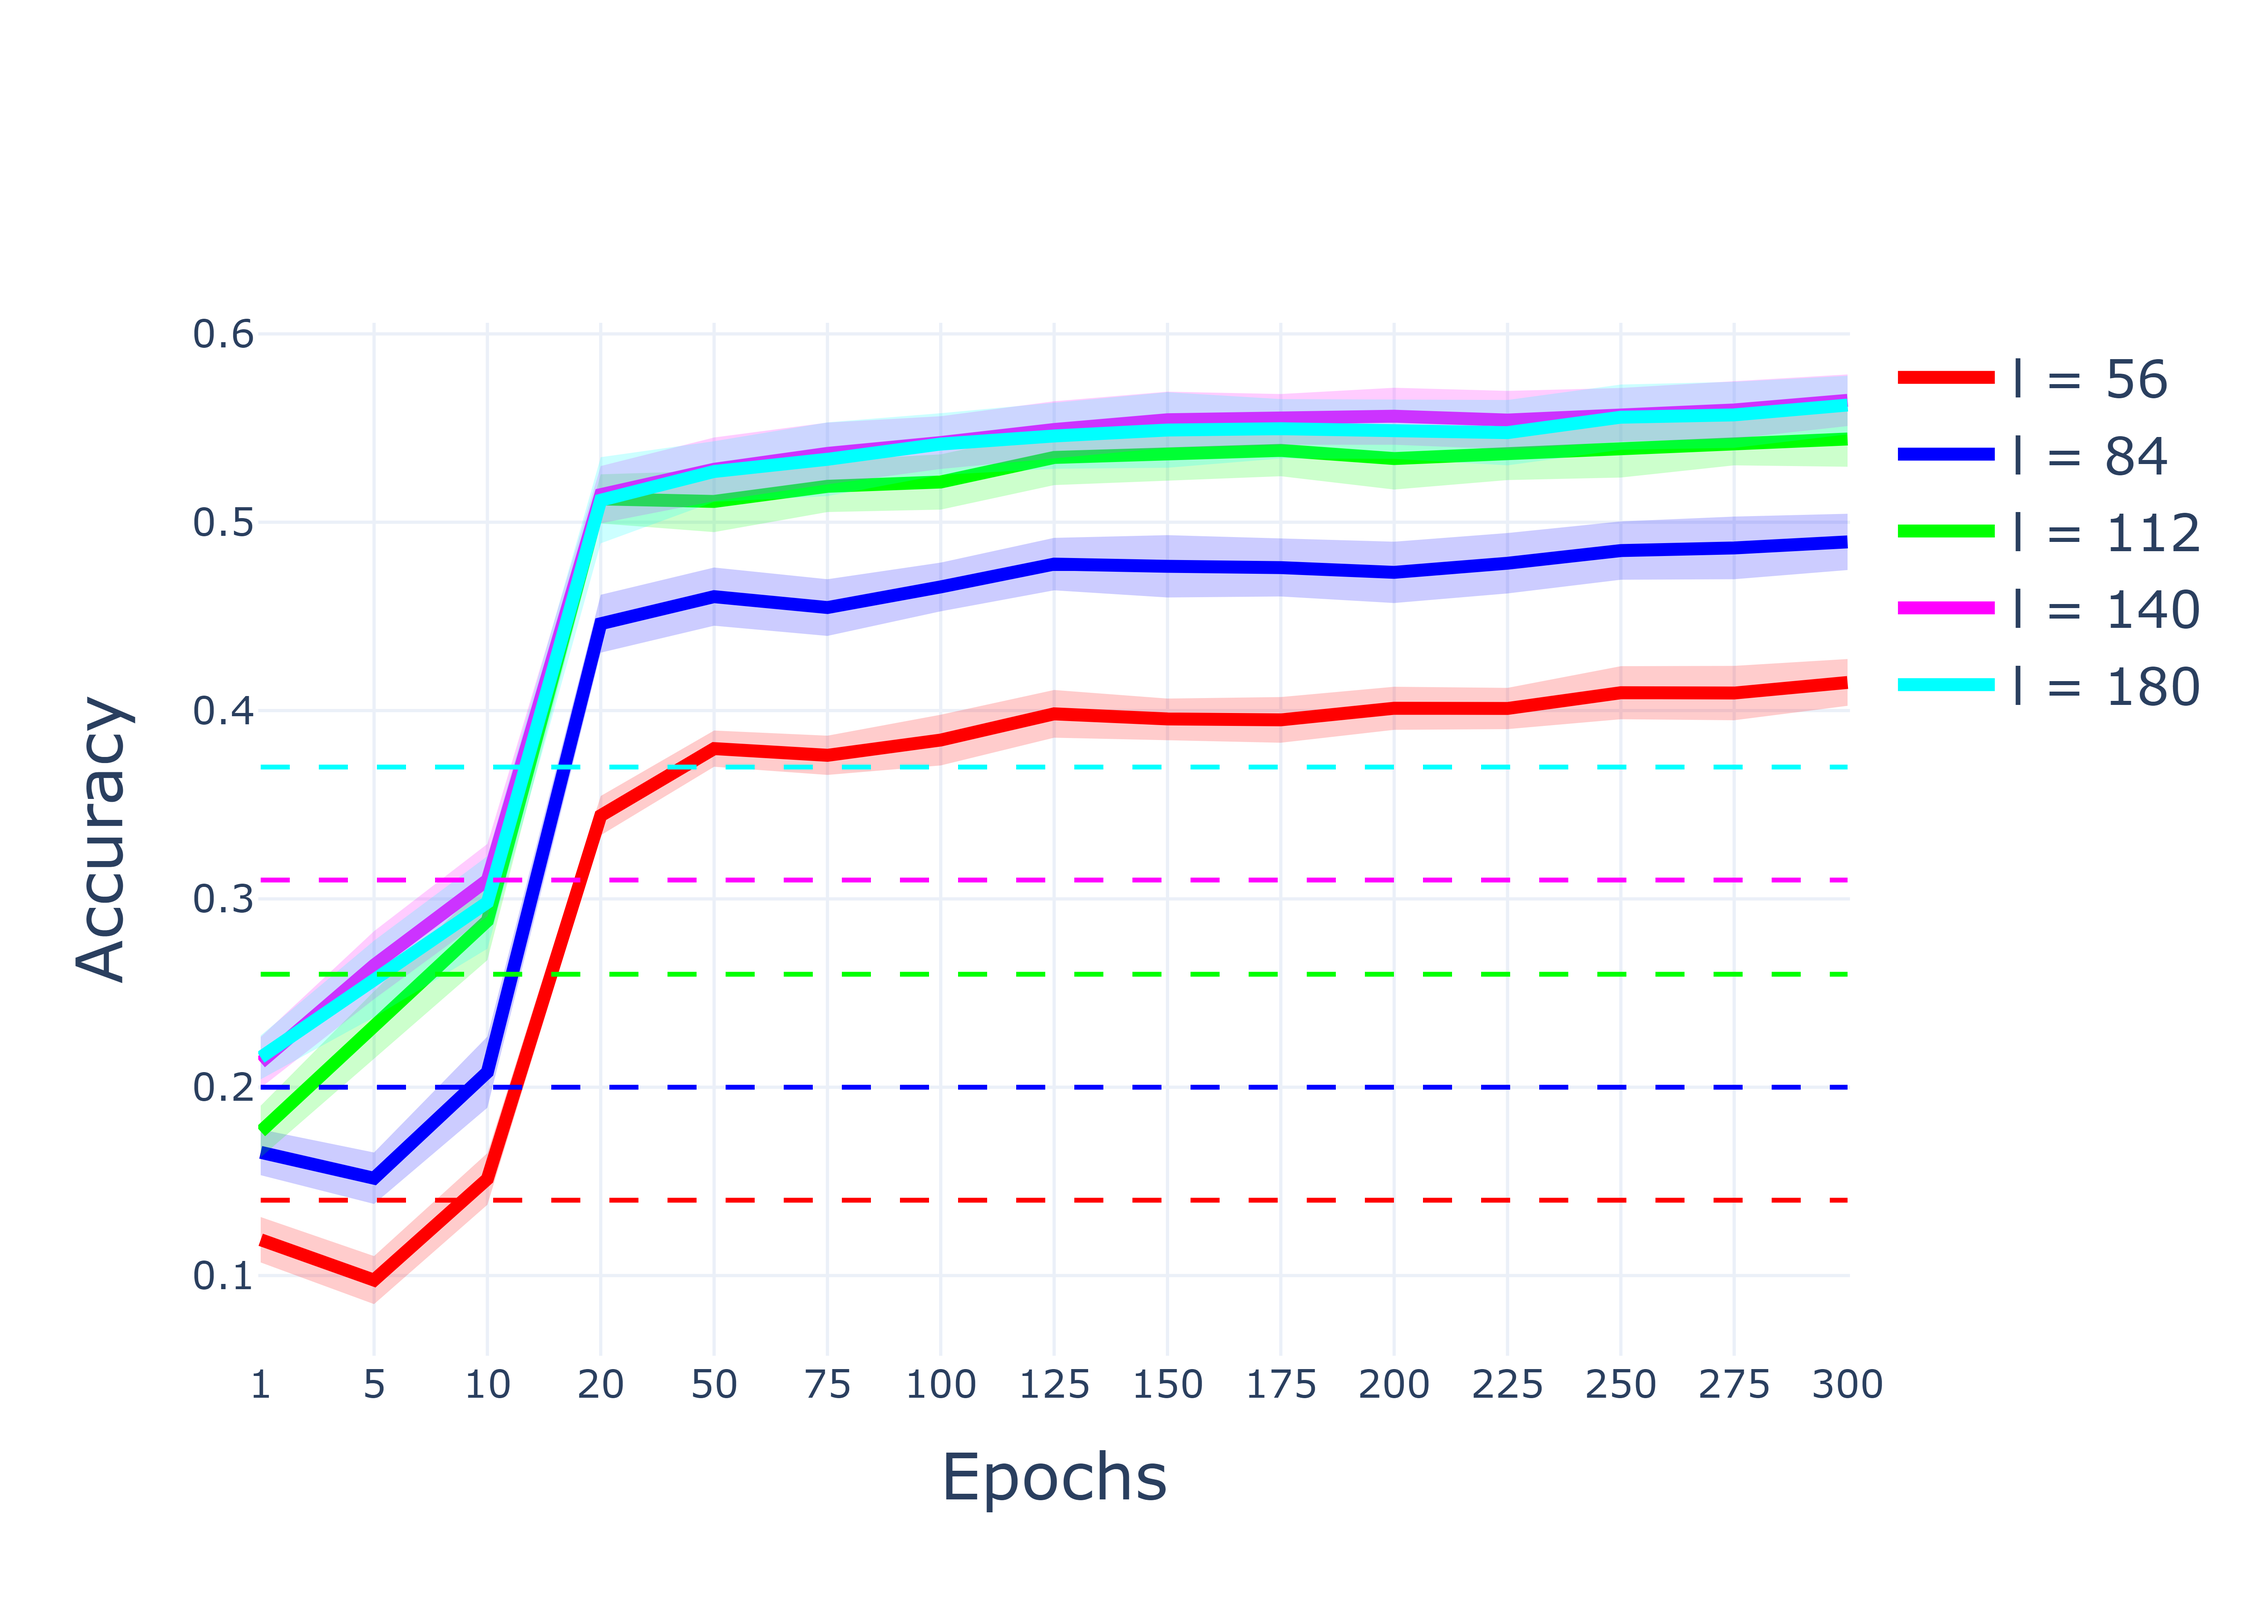
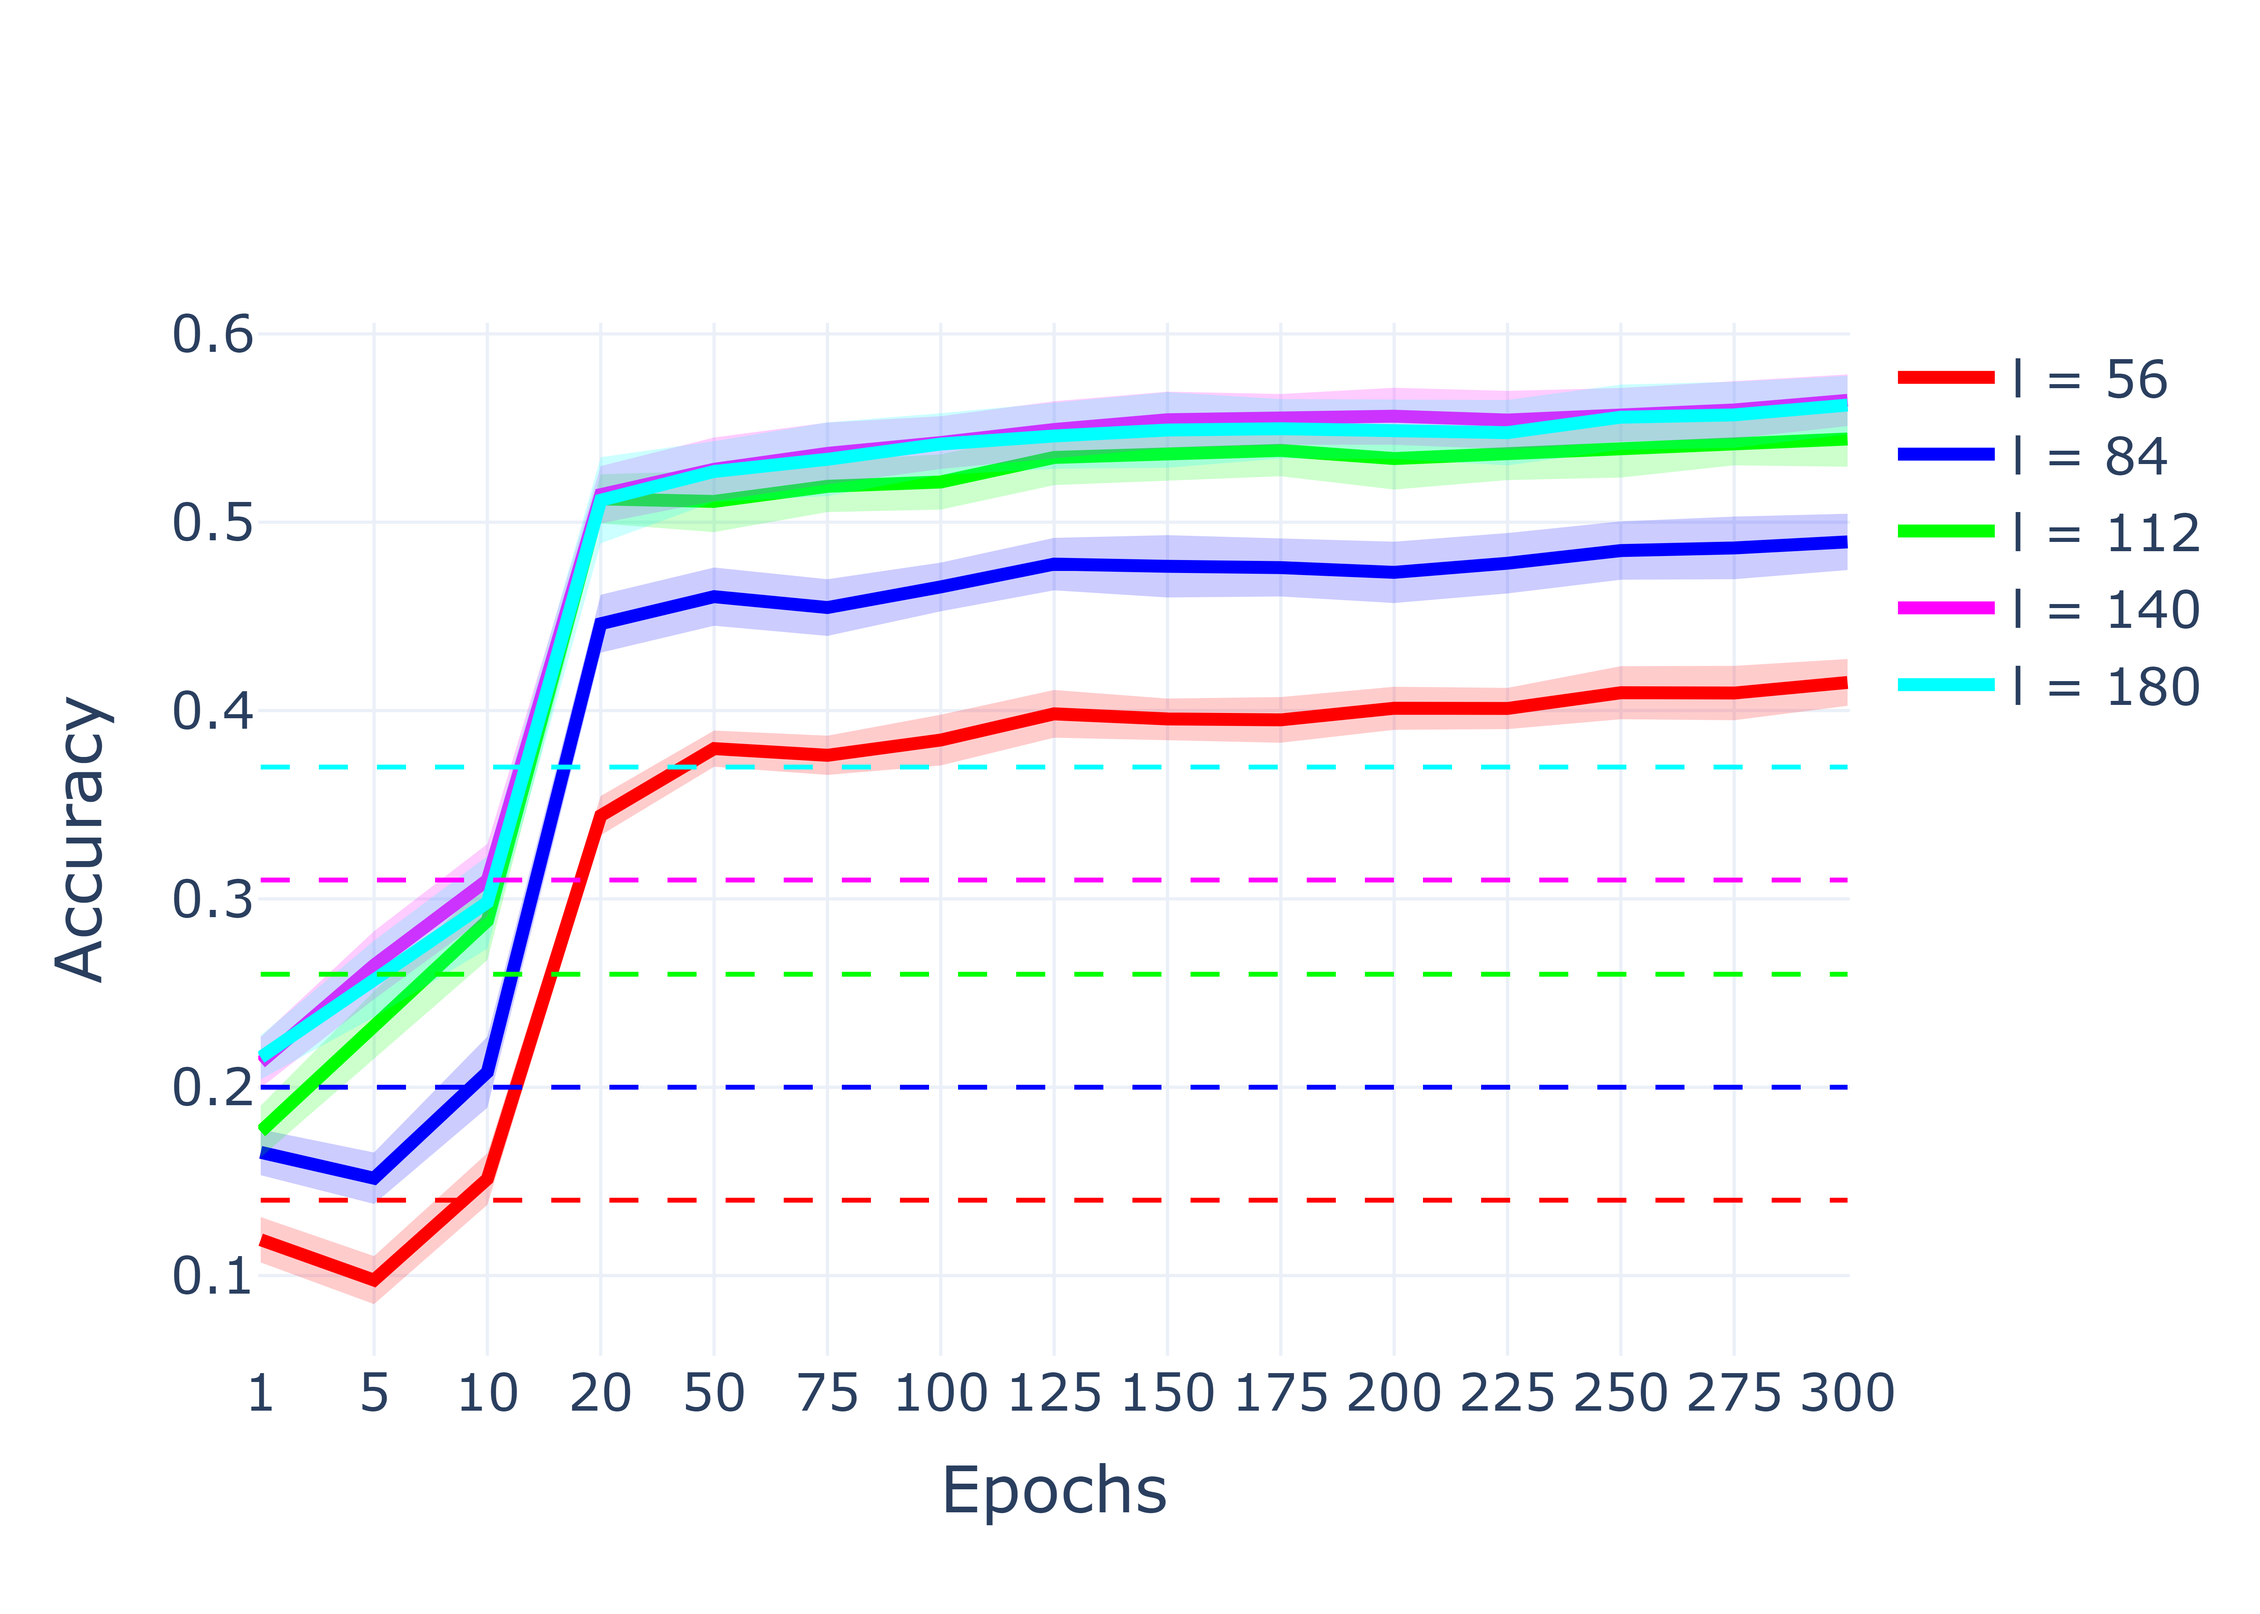
Update

diff --git a/get_results_task2.py b/get_results_task2.py
@@ -2,14 +2,16 @@ import pickle
 import numpy as np
 import os  
 
-SL_val_aucs = np.load(os.path.join('results_ABIDE','CPAC-CC200','ABIDE_SL_ValAucs.npy'))
-SL_val_losses = np.load(os.path.join('results_ABIDE','CPAC-CC200','ABIDE_SL_Vallosses.npy'))
+case = 'DPARSF-CC400'
+
+SL_val_aucs = np.load(os.path.join('results_ABIDE',case,'ABIDE_SL_ValAucs.npy'))
+SL_val_losses = np.load(os.path.join('results_ABIDE',case,'ABIDE_SL_Vallosses.npy'))
 
 
-with open(os.path.join('results_ABIDE','CPAC-CC200','ABIDE_SL_results.pkl'), 'rb') as f:
+with open(os.path.join('results_ABIDE',case,'ABIDE_SL_results.pkl'), 'rb') as f:
     test_result_SL = pickle.load(f)
     
-with open(os.path.join('results_ABIDE','CPAC-CC200','ABIDE_SSL_test_results.pkl'), 'rb') as f:
+with open(os.path.join('results_ABIDE',case,'ABIDE_SSL_test_results.pkl'), 'rb') as f:
     test_result_SSL = pickle.load(f)
 
 SSL_val_auc = np.zeros((10,70))   

diff --git a/plot_results_task1.py b/plot_results_task1.py
@@ -100,6 +100,7 @@ fig.update_layout(
     xaxis_title='Epochs',
     yaxis_title='Accuracy',
     template='plotly_white',
+    font=dict(size=16),
     xaxis=dict(
         tickvals=x,  # Keeping the same tick positions
         ticktext=[str(label) for label in custom_xticklabels],  # Custom tick labels
@@ -127,7 +128,6 @@ fig.add_trace(go.Scatter(
 
 # Customize the layout
 fig.update_layout(
-    title='Training Loss Curve',
     xaxis_title='Epoch',
     yaxis_title='Loss',
     font=dict(size=16),
